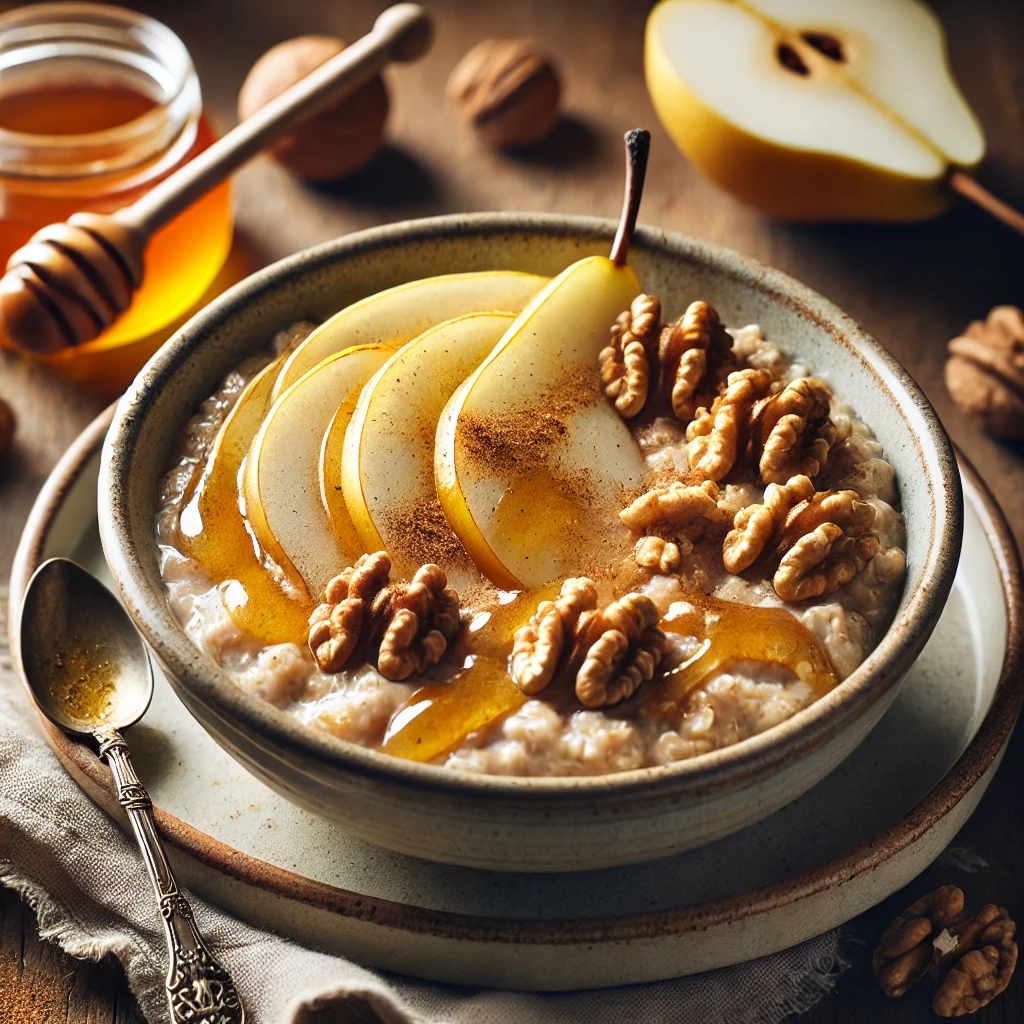
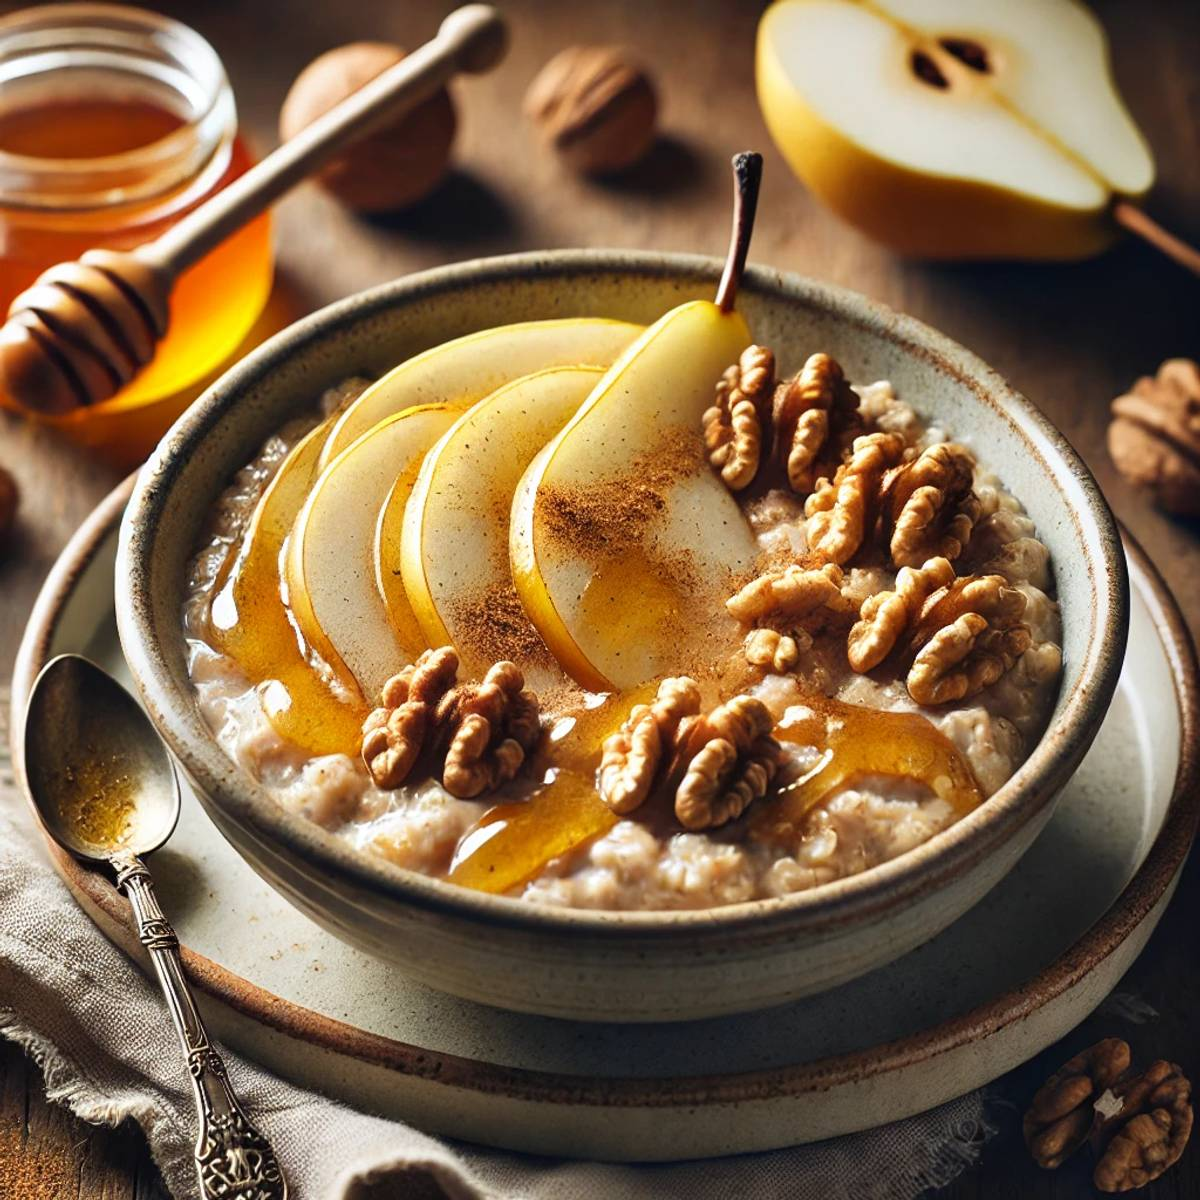
compressed images and deleted images type of jpg

diff --git a/app/page.tsx b/app/page.tsx
@@ -21,7 +21,7 @@ const featuredRecipes = [
   },
   {
     title: "Spinat-Käse Lasagne",
-    image: "images/MainCourses/spinat-kaese-lasagne.jpg",
+    image: "images/MainCourses/spinat-kaese-lasagne.webp",
     prepTime: "50 Min.",
     rating: 4.7,
     category: "Aufläufe",
@@ -29,7 +29,7 @@ const featuredRecipes = [
   },
   {
     title: "Käsespätzle",
-    image: "images/MainCourses/kaesespaetzle.jpg",
+    image: "images/MainCourses/kaesespaetzle.webp",
     prepTime: "45 Min.",
     rating: 4.9,
     category: "Traditionell",
